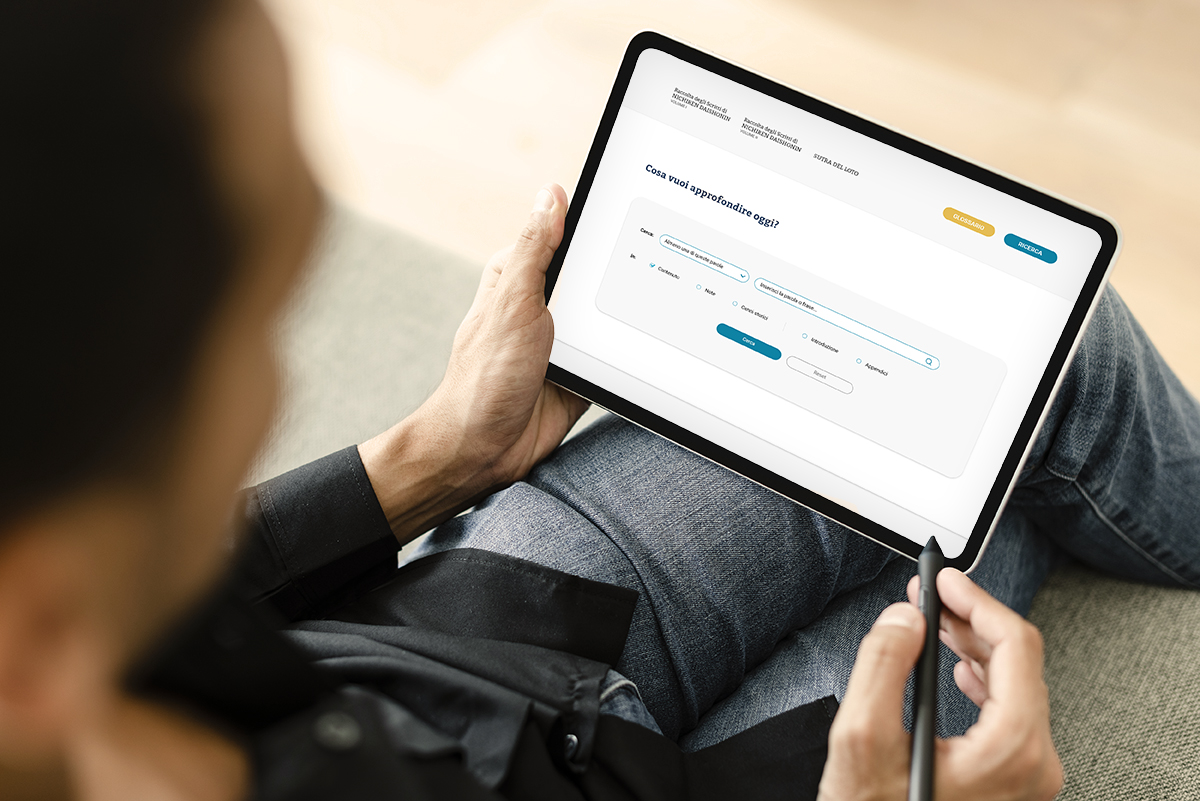
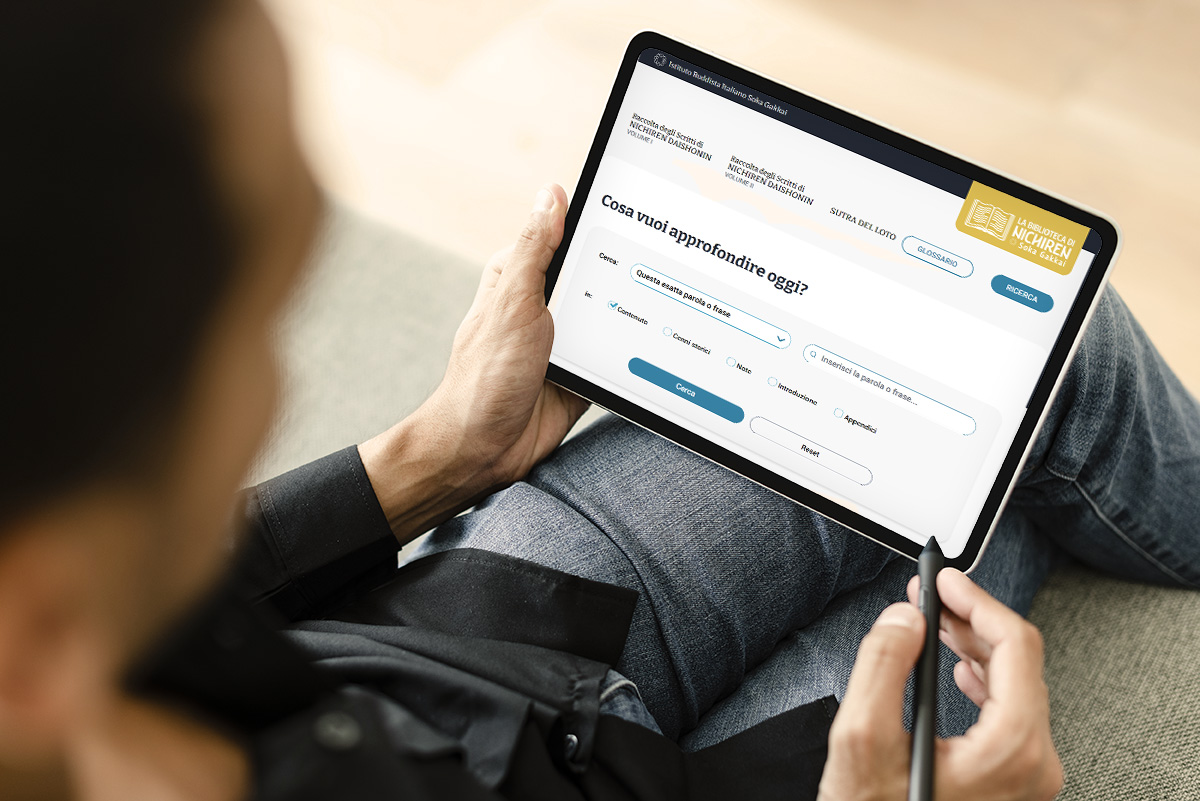
fix minor

diff --git a/pages/index.tsx b/pages/index.tsx
@@ -160,7 +160,7 @@ export default function Home() {
                   </div>
                   <div>
                     <div className="font-serif flex flex-row justify-start item-start text-left pt-6 pb-8 ">
-                      <span className="flex item-center justify-center min-w-[50px] h-[50px] p-3 mr-4 z-10 ico-in-square rounded-xl bg-[#EEE8DD] ">
+                      <span className="flex item-center justify-center min-w-[50px] h-[50px] p-3 mr-4 z-10 ico-in-square rounded-xl bg-[#F3E8CA] ">
                         <Image
                           className=""
                           src={GlossaryIcon}
@@ -232,9 +232,9 @@ export default function Home() {
               Che cos&apos;è La Biblioteca di Nichiren
             </h2>
             <p className="text-2xl font-serif text-center mx-4 md:mx-32 lg:mx-64">
-              Benvenuti nella Biblioteca di Nichiren, una <mark>libreria online di
-              testi buddisti aperta a tutti</mark> per la libera consultazione e
-              ricerca. Essa contiene le traduzioni in italiano dei testi
+              Benvenuti nella Biblioteca di Nichiren, una <span className="mark">libreria online di
+              testi buddisti aperta a tutti per la libera consultazione e
+              ricerca.</span> Essa contiene le traduzioni in italiano dei testi
               essenziali del buddismo di Nichiren: La raccolta degli scritti di
               Nichiren Daishonin Vol. 1 e 2 e il Sutra del Loto. Come aiuto alla
               lettura è presente anche un glossario dei termini buddisti usati.

diff --git a/styles/globals.scss b/styles/globals.scss
@@ -288,11 +288,18 @@ input[type="checkbox"]:disabled {
 main .wp-block-image img {
   margin: 50px 0 50px;
 }
-.home mark {
+mark {
+    scroll-margin-top: 100px;
+    background-color: #F3E8CA;
     border-radius: 17px;
     padding: 0 6px;
     box-decoration-break: clone;
     -webkit-box-decoration-break: clone;
+}
+.home span.mark {
+    color: #E5BD55;
+    font-weight: 700;
+    background-color: transparent;
 }
 
 @media screen and (max-width: 767px) {
